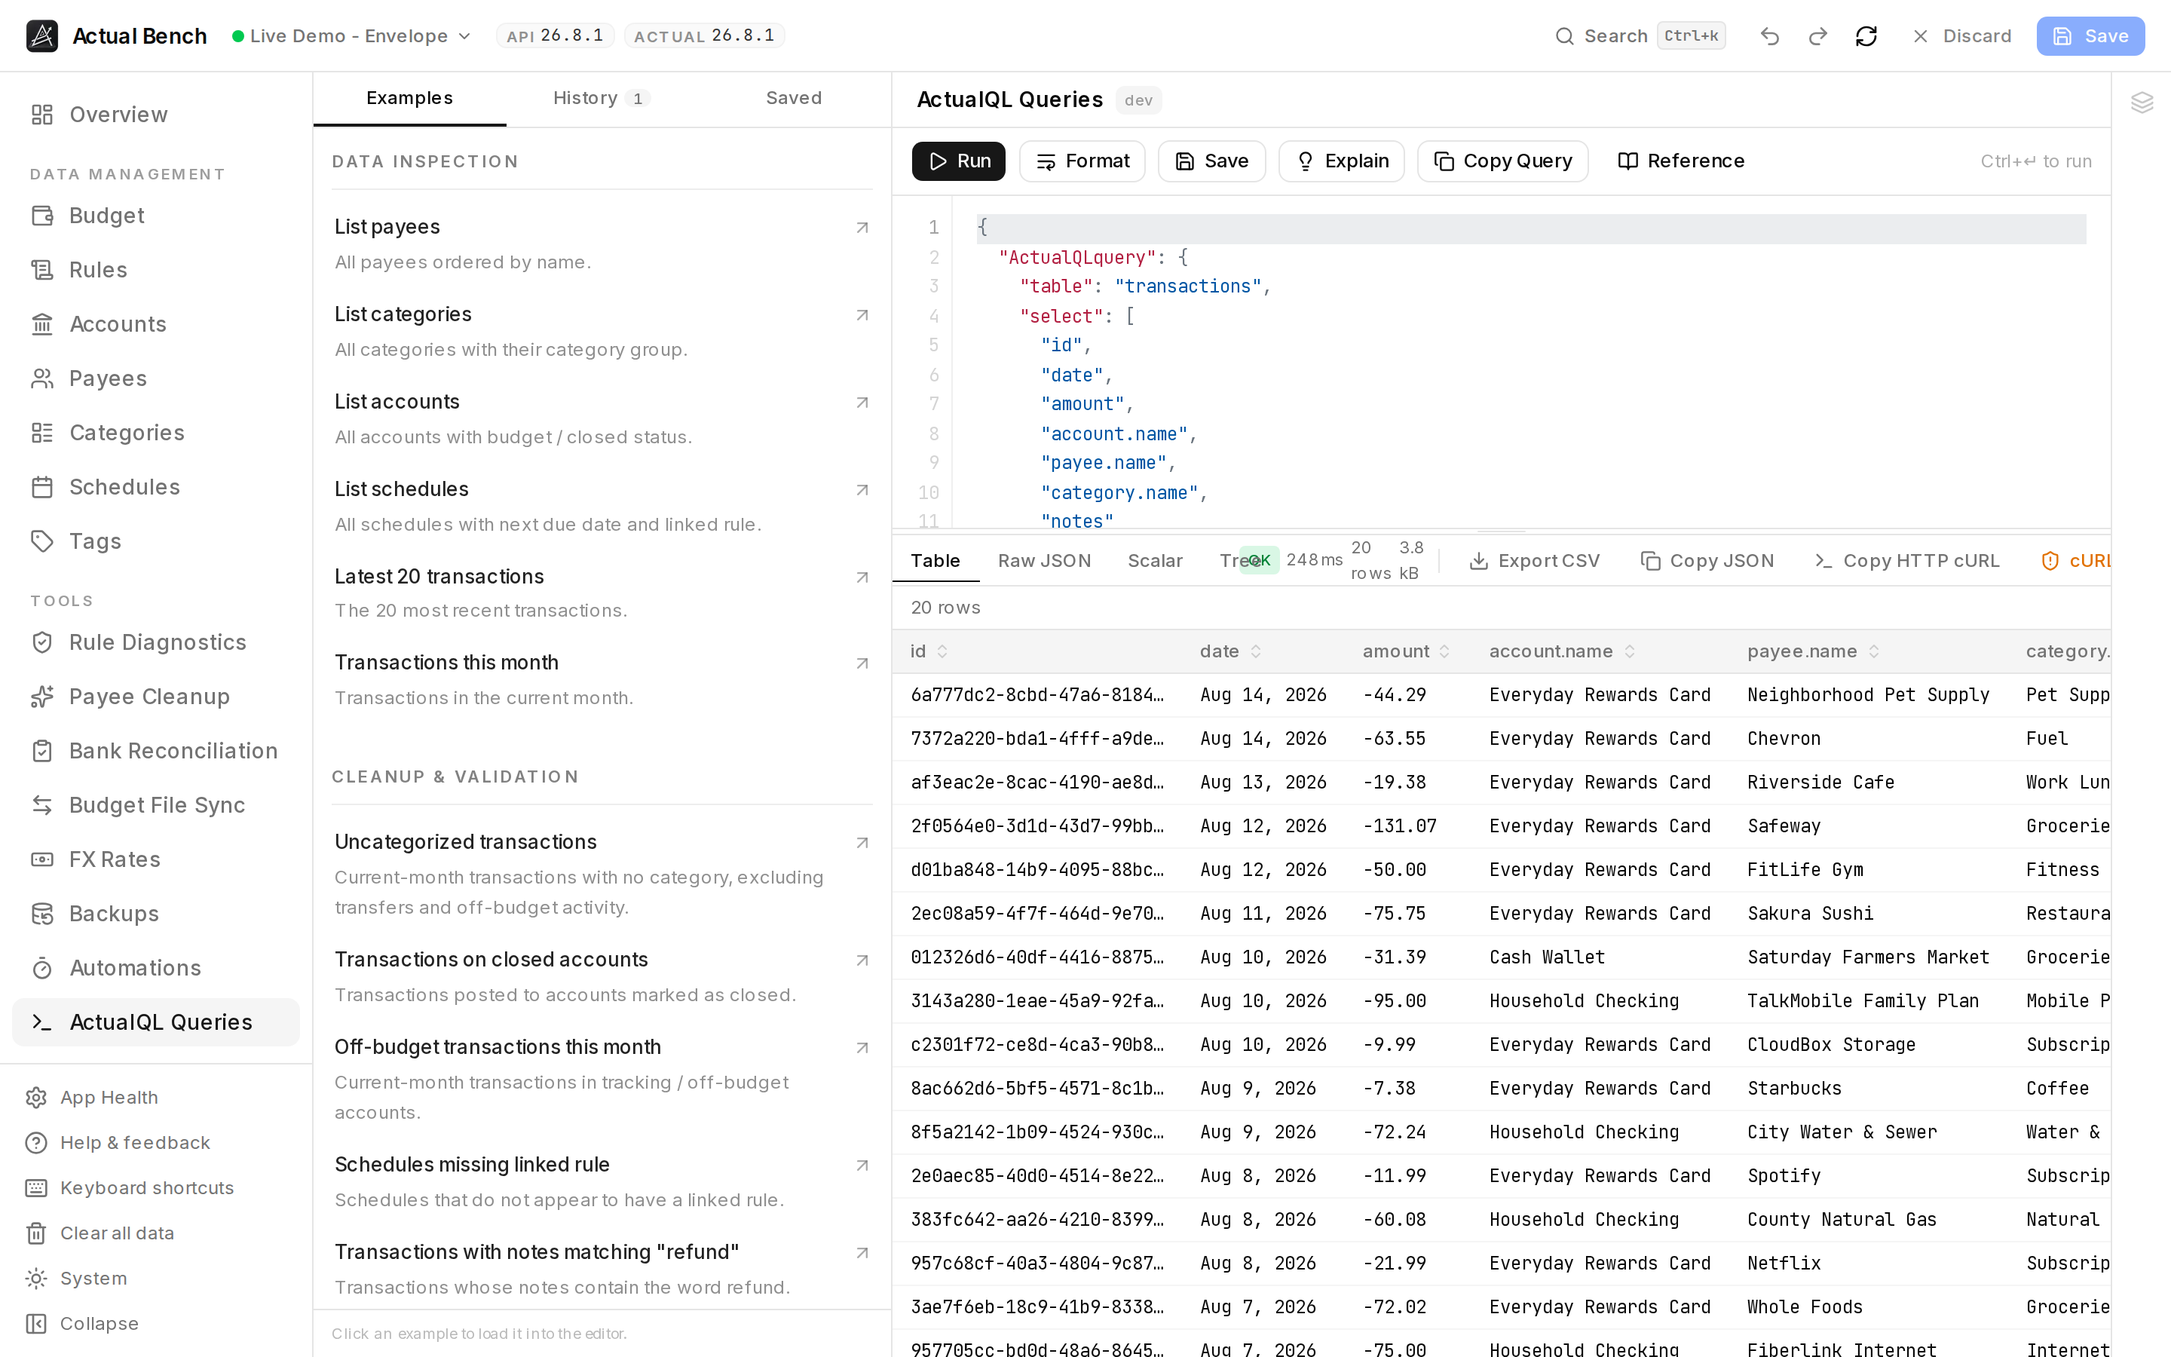
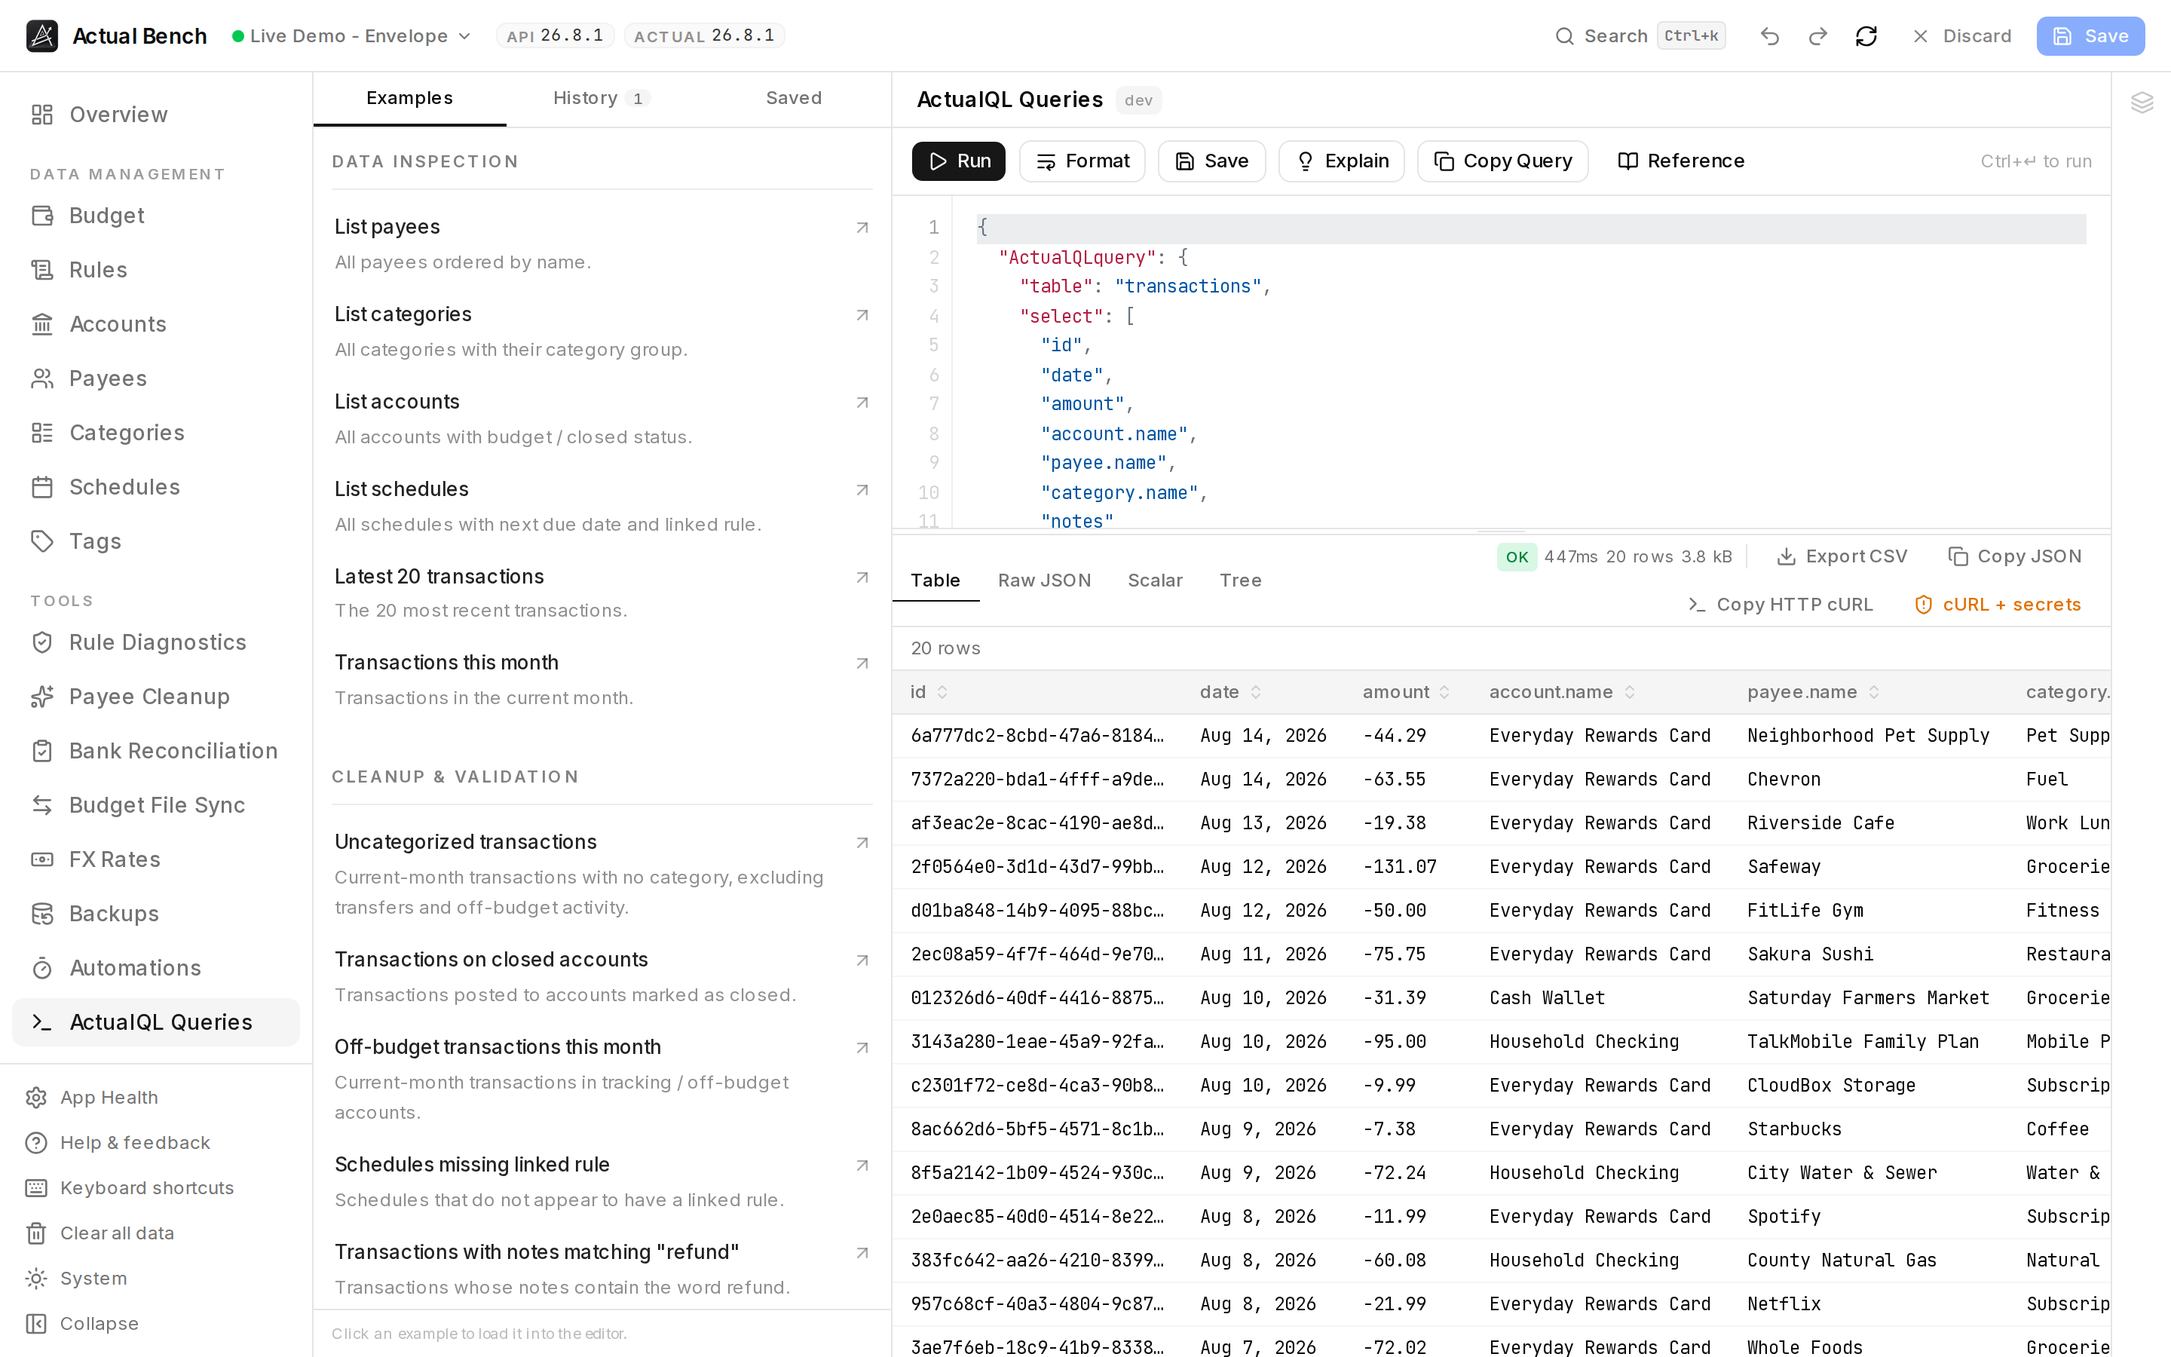
fix: two defects the screenshots exposed
**The ActualQL results toolbar overlapped itself.** Four tabs, four
measurements and up to four actions do not fit one line beside the examples
panel: the measurements ran over the Tree tab and the last action was clipped
off the edge, at 1440px. The row wraps now, the tabs never compress, and the
measurements move as one group.

**A currency pair added by hand vanished on reload.** The FX page derived its
pairs from flows that convert currency, so a pair set up ahead of a flow lived
only in the page's own state - and the rates saved against it stayed in the
registry with nothing on screen to reach them by. Pairs now also come from the
registry itself: a pair with a rate behind it exists, whether or not a flow
uses it yet.

Both verified against a running instance, not only in tests: the toolbar
re-photographed, and a rate saved through the API comes back as a pair on a
fresh load.

Changed region(s): [[0.6875, 0.4044, 0.9688, 1.0], [0.4062, 0.4667, 0.6562, 1.0], [0.4062, 0.4044, 0.6562, 0.4667]]

diff --git a/src/features/fx/components/FxRatesView.tsx b/src/features/fx/components/FxRatesView.tsx
@@ -1,7 +1,7 @@
 "use client";
 
 import { useMemo, useState } from "react";
-import { useMutation, useQuery } from "@tanstack/react-query";
+import { useMutation, useQuery, useQueryClient } from "@tanstack/react-query";
 import { Loader2, Plus, RefreshCw } from "lucide-react";
 import { Badge } from "@/components/ui/badge";
 import { Button } from "@/components/ui/button";
@@ -10,7 +10,7 @@ import { PageLayout } from "@/components/layout/PageLayout";
 import { decodeFlowPlanConfig } from "@/lib/sync/flowConfig";
 import { invertRate } from "@/lib/fx/fxMath";
 import { listFlows } from "@/features/sync/lib/syncApi";
-import { addManualFxRate, fillFxRange, fxRecalcImpact, listFxRates } from "../lib/fxApi";
+import { addManualFxRate, fillFxRange, fxRecalcImpact, listFxPairs, listFxRates } from "../lib/fxApi";
 import { FxImportPanel } from "./FxImportPanel";
 import type { FxRateRecord } from "@/lib/fx/types";
 
@@ -64,13 +64,23 @@ export function FxRatesView() {
     },
   });
 
+  // Pairs that already hold rates, whether or not a flow converts through them.
+  // Without this a pair added here to prepare rates ahead of a flow survived
+  // only until the next page load, and the rates saved against it were left in
+  // the registry with nothing on screen to reach them by.
+  const storedPairsQuery = useQuery({
+    queryKey: ["fx-stored-pairs"],
+    queryFn: async () => (await listFxPairs()).pairs,
+  });
+
   const [extraPairs, setExtraPairs] = useState<Pair[]>([]);
   const pairs = useMemo(() => {
     const all = new Map<string, Pair>();
     for (const p of flowPairsQuery.data ?? []) all.set(pairKey(p), p);
+    for (const p of storedPairsQuery.data ?? []) all.set(pairKey(p), p);
     for (const p of extraPairs) all.set(pairKey(p), p);
     return [...all.values()];
-  }, [flowPairsQuery.data, extraPairs]);
+  }, [flowPairsQuery.data, storedPairsQuery.data, extraPairs]);
 
   const [selectedKey, setSelectedKey] = useState<string | null>(null);
   const selected = pairs.find((p) => pairKey(p) === selectedKey) ?? pairs[0] ?? null;
@@ -157,10 +167,18 @@ function PairPanel({ pair }: { pair: Pair }) {
   const [notice, setNotice] = useState<string | null>(null);
   const [error, setError] = useState<string | null>(null);
 
+  const queryClient = useQueryClient();
   const ratesQuery = useQuery({
     queryKey: ["fx-rates", pairKey(pair), from, to],
     queryFn: () => listFxRates(pair.base, pair.quote, from, to),
   });
+
+  // A pair becomes real the moment it has a rate, so the list of stored pairs
+  // is no longer accurate once one is written.
+  const refreshRatesAndPairs = () => {
+    ratesQuery.refetch();
+    queryClient.invalidateQueries({ queryKey: ["fx-stored-pairs"] });
+  };
   const rates = ratesQuery.data?.rates ?? [];
   const rateByDate = useMemo(() => new Map(rates.map((r) => [r.requestedDate, r])), [rates]);
   const days = useMemo(() => daysBetween(from, to), [from, to]);
@@ -170,7 +188,7 @@ function PairPanel({ pair }: { pair: Pair }) {
 
   const fillM = useMutation({
     mutationFn: () => fillFxRange(pair.base, pair.quote, from, to),
-    onSuccess: ({ result }) => { setNotice(`Filled ${result.inserted} day(s) from Frankfurter (${result.skipped} already set).`); setError(null); ratesQuery.refetch(); },
+    onSuccess: ({ result }) => { setNotice(`Filled ${result.inserted} day(s) from Frankfurter (${result.skipped} already set).`); setError(null); refreshRatesAndPairs(); },
     onError: (e) => setError(e instanceof Error ? e.message : "Could not fetch rates."),
   });
   const [impact, setImpact] = useState<Awaited<ReturnType<typeof fxRecalcImpact>> | null>(null);
@@ -194,7 +212,7 @@ function PairPanel({ pair }: { pair: Pair }) {
       setOverrideRate("");
       setOverrideDate("");
       setImpact(imp && imp.rows.length > 0 ? imp : null);
-      ratesQuery.refetch();
+      refreshRatesAndPairs();
     },
     onError: (e) => setError(e instanceof Error ? e.message : "Could not save the rate."),
   });
@@ -291,7 +309,7 @@ function PairPanel({ pair }: { pair: Pair }) {
         </table>
       </div>
 
-      <FxImportPanel onCommitted={() => ratesQuery.refetch()} />
+      <FxImportPanel onCommitted={refreshRatesAndPairs} />
     </div>
   );
 }

diff --git a/src/features/query/components/QueryResults.tsx b/src/features/query/components/QueryResults.tsx
@@ -568,44 +568,51 @@ function ResultsActionBar({
   const showMeta = execTime !== null;
 
   return (
-    <div className="flex shrink-0 items-center justify-between border-b border-border">
+    // Wraps rather than overlaps. Four tabs, four measurements and up to four
+    // actions do not fit one line beside an open examples panel, and the row
+    // used to run the metrics over the last tab and clip the final button off
+    // the edge - at 1440px, which is an ordinary laptop.
+    <div className="flex shrink-0 flex-wrap items-center justify-between gap-y-1 border-b border-border">
       {/* Left: tabs (when present) */}
-      <div className="flex items-center">
+      <div className="flex shrink-0 items-center">
         {tabsList ?? <div className="h-9" />}
       </div>
 
       {/* Right: metadata + actions */}
-      <div className="flex items-center gap-1 pr-2">
+      <div className="flex min-w-0 flex-1 flex-wrap items-center justify-end gap-1 pr-2">
         {showMeta && (
           <>
-            {/* Status chip */}
-            {isError ? (
-              <span className="rounded px-1.5 py-0.5 text-[10px] font-medium bg-destructive/15 text-destructive">
-                Error
-              </span>
-            ) : (
-              <span className="rounded px-1.5 py-0.5 text-[10px] font-medium bg-green-500/15 text-green-700 dark:text-green-400">
-                OK
-              </span>
-            )}
-            {/* Execution time */}
-            <span className="text-[11px] text-muted-foreground">
-              {formatTime(execTime!)}
-            </span>
-            {/* Row count */}
-            {rowCount && (
+            {/* One measurement group: it reads as a sentence and wraps as a unit. */}
+            <div className="flex shrink-0 items-center gap-1 whitespace-nowrap">
+              {/* Status chip */}
+              {isError ? (
+                <span className="rounded px-1.5 py-0.5 text-[10px] font-medium bg-destructive/15 text-destructive">
+                  Error
+                </span>
+              ) : (
+                <span className="rounded px-1.5 py-0.5 text-[10px] font-medium bg-green-500/15 text-green-700 dark:text-green-400">
+                  OK
+                </span>
+              )}
+              {/* Execution time */}
               <span className="text-[11px] text-muted-foreground">
-                {rowCount}
+                {formatTime(execTime!)}
               </span>
-            )}
-            {/* Payload size */}
-            {payloadBytes !== null && (
-              <span className="text-[11px] text-muted-foreground">
-                {formatBytes(payloadBytes)}
-              </span>
-            )}
+              {/* Row count */}
+              {rowCount && (
+                <span className="text-[11px] text-muted-foreground">
+                  {rowCount}
+                </span>
+              )}
+              {/* Payload size */}
+              {payloadBytes !== null && (
+                <span className="text-[11px] text-muted-foreground">
+                  {formatBytes(payloadBytes)}
+                </span>
+              )}
+            </div>
             {/* Divider */}
-            <div className="mx-1 h-4 w-px bg-border" />
+            <div className="mx-1 h-4 w-px shrink-0 bg-border" />
           </>
         )}
 

diff --git a/src/features/query/components/QueryResults.test.tsx b/src/features/query/components/QueryResults.test.tsx
@@ -1,0 +1,66 @@
+import { render, screen } from "@testing-library/react";
+import { QueryResults } from "./QueryResults";
+
+jest.mock("sonner", () => ({
+  toast: Object.assign(jest.fn(), { error: jest.fn(), success: jest.fn(), warning: jest.fn() }),
+}));
+
+const rows = [
+  { id: "t-1", date: "2026-08-14", amount: -4429, "payee.name": "Neighborhood Pet Supply" },
+  { id: "t-2", date: "2026-08-14", amount: -6355, "payee.name": "Chevron" },
+];
+
+/**
+ * The results toolbar carries four tabs, four measurements and up to four
+ * actions. Beside an open examples panel they did not fit one line: the
+ * measurements ran over the last tab and the final action was clipped off the
+ * edge - at 1440px, which is an ordinary laptop.
+ */
+describe("the results toolbar", () => {
+  it("keeps every tab, measurement and action on screen together", () => {
+    render(
+      <QueryResults
+        result={rows}
+        isRunning={false}
+        error={null}
+        execTime={248}
+        payloadBytes={3891}
+        lastRequest={{
+          mode: "http-api",
+          query: { table: "transactions" } as never,
+          rawQuery: '{"table":"transactions"}',
+          baseUrl: "https://api.example.com",
+          budgetSyncId: "b-1",
+          apiKey: "key",
+        }}
+      />
+    );
+
+    for (const tab of ["Table", "Raw JSON", "Scalar", "Tree"]) {
+      expect(screen.getByRole("tab", { name: tab })).toBeInTheDocument();
+    }
+    expect(screen.getByText("OK")).toBeInTheDocument();
+    expect(screen.getByText("248ms")).toBeInTheDocument();
+    for (const action of ["Export CSV", "Copy JSON", "Copy HTTP cURL", "cURL + secrets"]) {
+      expect(screen.getByRole("button", { name: action })).toBeInTheDocument();
+    }
+  });
+
+  it("wraps rather than overlapping when the row runs out of width", () => {
+    // jsdom cannot measure layout, so this pins the mechanism: the tabs never
+    // compress, and the actions move to a second line instead of over them.
+    const { container } = render(
+      <QueryResults result={rows} isRunning={false} error={null} execTime={248} payloadBytes={3891} />
+    );
+
+    const bar = container.querySelector(".border-b");
+    expect(bar?.className).toContain("flex-wrap");
+    expect(bar?.firstElementChild?.className).toContain("shrink-0");
+  });
+
+  it("shows no measurements before a query has run", () => {
+    render(<QueryResults result={null} isRunning={false} error={null} />);
+
+    expect(screen.queryByText("OK")).not.toBeInTheDocument();
+  });
+});

diff --git a/src/lib/fx/repositories/fxRateRepository.test.ts b/src/lib/fx/repositories/fxRateRepository.test.ts
@@ -1,0 +1,76 @@
+/**
+ * @jest-environment node
+ */
+import { mkdtempSync, rmSync } from "node:fs";
+import { join } from "node:path";
+import { tmpdir } from "node:os";
+import { getAppDb, resetAppDbForTests } from "@/lib/app-db/connection";
+import { insertFxRate, listFxPairsWithRates, supersedeActiveFxRate } from "./fxRateRepository";
+import type { SqliteDatabase } from "@/lib/app-db/types";
+
+function tempDb(): { root: string; db: SqliteDatabase } {
+  const root = mkdtempSync(join(tmpdir(), "actual-bench-fx-pairs-"));
+  return { root, db: getAppDb(join(root, "metadata.sqlite")) };
+}
+
+function rate(db: SqliteDatabase, base: string, quote: string, date: string, value = "1.1000") {
+  insertFxRate(db, {
+    baseCurrency: base,
+    quoteCurrency: quote,
+    requestedDate: date,
+    effectiveDate: date,
+    rate: value,
+    source: "manual",
+    provider: null,
+    notes: null,
+  });
+}
+
+describe("listFxPairsWithRates", () => {
+  let root: string;
+  let db: SqliteDatabase;
+
+  beforeEach(() => {
+    ({ root, db } = tempDb());
+  });
+
+  afterEach(() => {
+    resetAppDbForTests();
+    rmSync(root, { recursive: true, force: true });
+  });
+
+  it("finds a pair that only exists because someone saved a rate for it", () => {
+    // The case this exists for: a pair added on the page before any flow
+    // converts through it. It used to live in the page's own state, so a reload
+    // lost it and its rates became unreachable.
+    rate(db, "EUR", "USD", "2026-08-29");
+
+    expect(listFxPairsWithRates(db)).toEqual([{ base: "EUR", quote: "USD" }]);
+  });
+
+  it("lists each pair once however many rates it holds", () => {
+    rate(db, "EUR", "USD", "2026-08-27");
+    rate(db, "EUR", "USD", "2026-08-28");
+    rate(db, "GBP", "USD", "2026-08-28");
+
+    expect(listFxPairsWithRates(db)).toEqual([
+      { base: "EUR", quote: "USD" },
+      { base: "GBP", quote: "USD" },
+    ]);
+  });
+
+  it("does not resurrect a pair whose rates have all been superseded", () => {
+    rate(db, "EUR", "USD", "2026-08-29");
+    supersedeActiveFxRate(db, {
+      baseCurrency: "EUR",
+      quoteCurrency: "USD",
+      requestedDate: "2026-08-29",
+    });
+
+    expect(listFxPairsWithRates(db)).toEqual([]);
+  });
+
+  it("returns nothing on a registry that has never held a rate", () => {
+    expect(listFxPairsWithRates(db)).toEqual([]);
+  });
+});

diff --git a/src/lib/fx/repositories/fxRateRepository.ts b/src/lib/fx/repositories/fxRateRepository.ts
@@ -147,6 +147,29 @@ export function findFxRatesForDateRange(
     .map(rowToRate);
 }
 
+/**
+ * Every pair the registry holds a rate for.
+ *
+ * The FX page derives its pairs from the flows that convert currency, which is
+ * right for the pairs a sync depends on and wrong for the ones somebody set up
+ * ahead of a flow: a pair added by hand lived in the page's own state, so a
+ * reload lost it, and the rates saved against it stayed in the database with no
+ * way back to them. A pair that has a rate exists, whether or not a flow uses
+ * it yet.
+ */
+export function listFxPairsWithRates(
+  db: SqliteDatabase
+): { base: string; quote: string }[] {
+  return db
+    .prepare(
+      `SELECT DISTINCT base_currency AS base, quote_currency AS quote
+       FROM fx_rates
+       WHERE status = 'active'
+       ORDER BY base_currency, quote_currency`
+    )
+    .all<{ base: string; quote: string }>();
+}
+
 /** Mark the active rate for a pair+date as superseded (part of a versioned edit). */
 export function supersedeActiveFxRate(
   db: SqliteDatabase,

diff --git a/src/app/api/fx/pairs/route.ts b/src/app/api/fx/pairs/route.ts
@@ -1,0 +1,23 @@
+import { NextResponse } from "next/server";
+import { getAppDb } from "@/lib/app-db/connection";
+import { appDbErrorResponse } from "@/lib/app-db/routeResponses";
+import { listFxPairsWithRates } from "@/lib/fx/repositories/fxRateRepository";
+
+export const dynamic = "force-dynamic";
+export const runtime = "nodejs";
+
+/**
+ * GET: the currency pairs the registry holds rates for.
+ *
+ * The FX page's other source of pairs is the set of flows that convert
+ * currency. That misses a pair somebody set up before building the flow: it
+ * lived only in the page's state, so a reload lost it and its rates became
+ * unreachable. A pair with a rate behind it is a pair.
+ */
+export function GET() {
+  try {
+    return NextResponse.json({ pairs: listFxPairsWithRates(getAppDb()) });
+  } catch (error) {
+    return appDbErrorResponse(error);
+  }
+}

diff --git a/src/features/fx/lib/fxApi.ts b/src/features/fx/lib/fxApi.ts
@@ -12,6 +12,11 @@ async function jsonFetch<T>(input: string, init?: RequestInit): Promise<T> {
   return data;
 }
 
+/** Pairs the registry holds rates for, whether or not a flow converts through them. */
+export function listFxPairs(): Promise<{ pairs: { base: string; quote: string }[] }> {
+  return jsonFetch("/api/fx/pairs");
+}
+
 export function listFxRates(base: string, quote: string, from: string, to: string): Promise<{ rates: FxRateRecord[] }> {
   const q = new URLSearchParams({ base, quote, from, to }).toString();
   return jsonFetch(`/api/fx/rates?${q}`);
